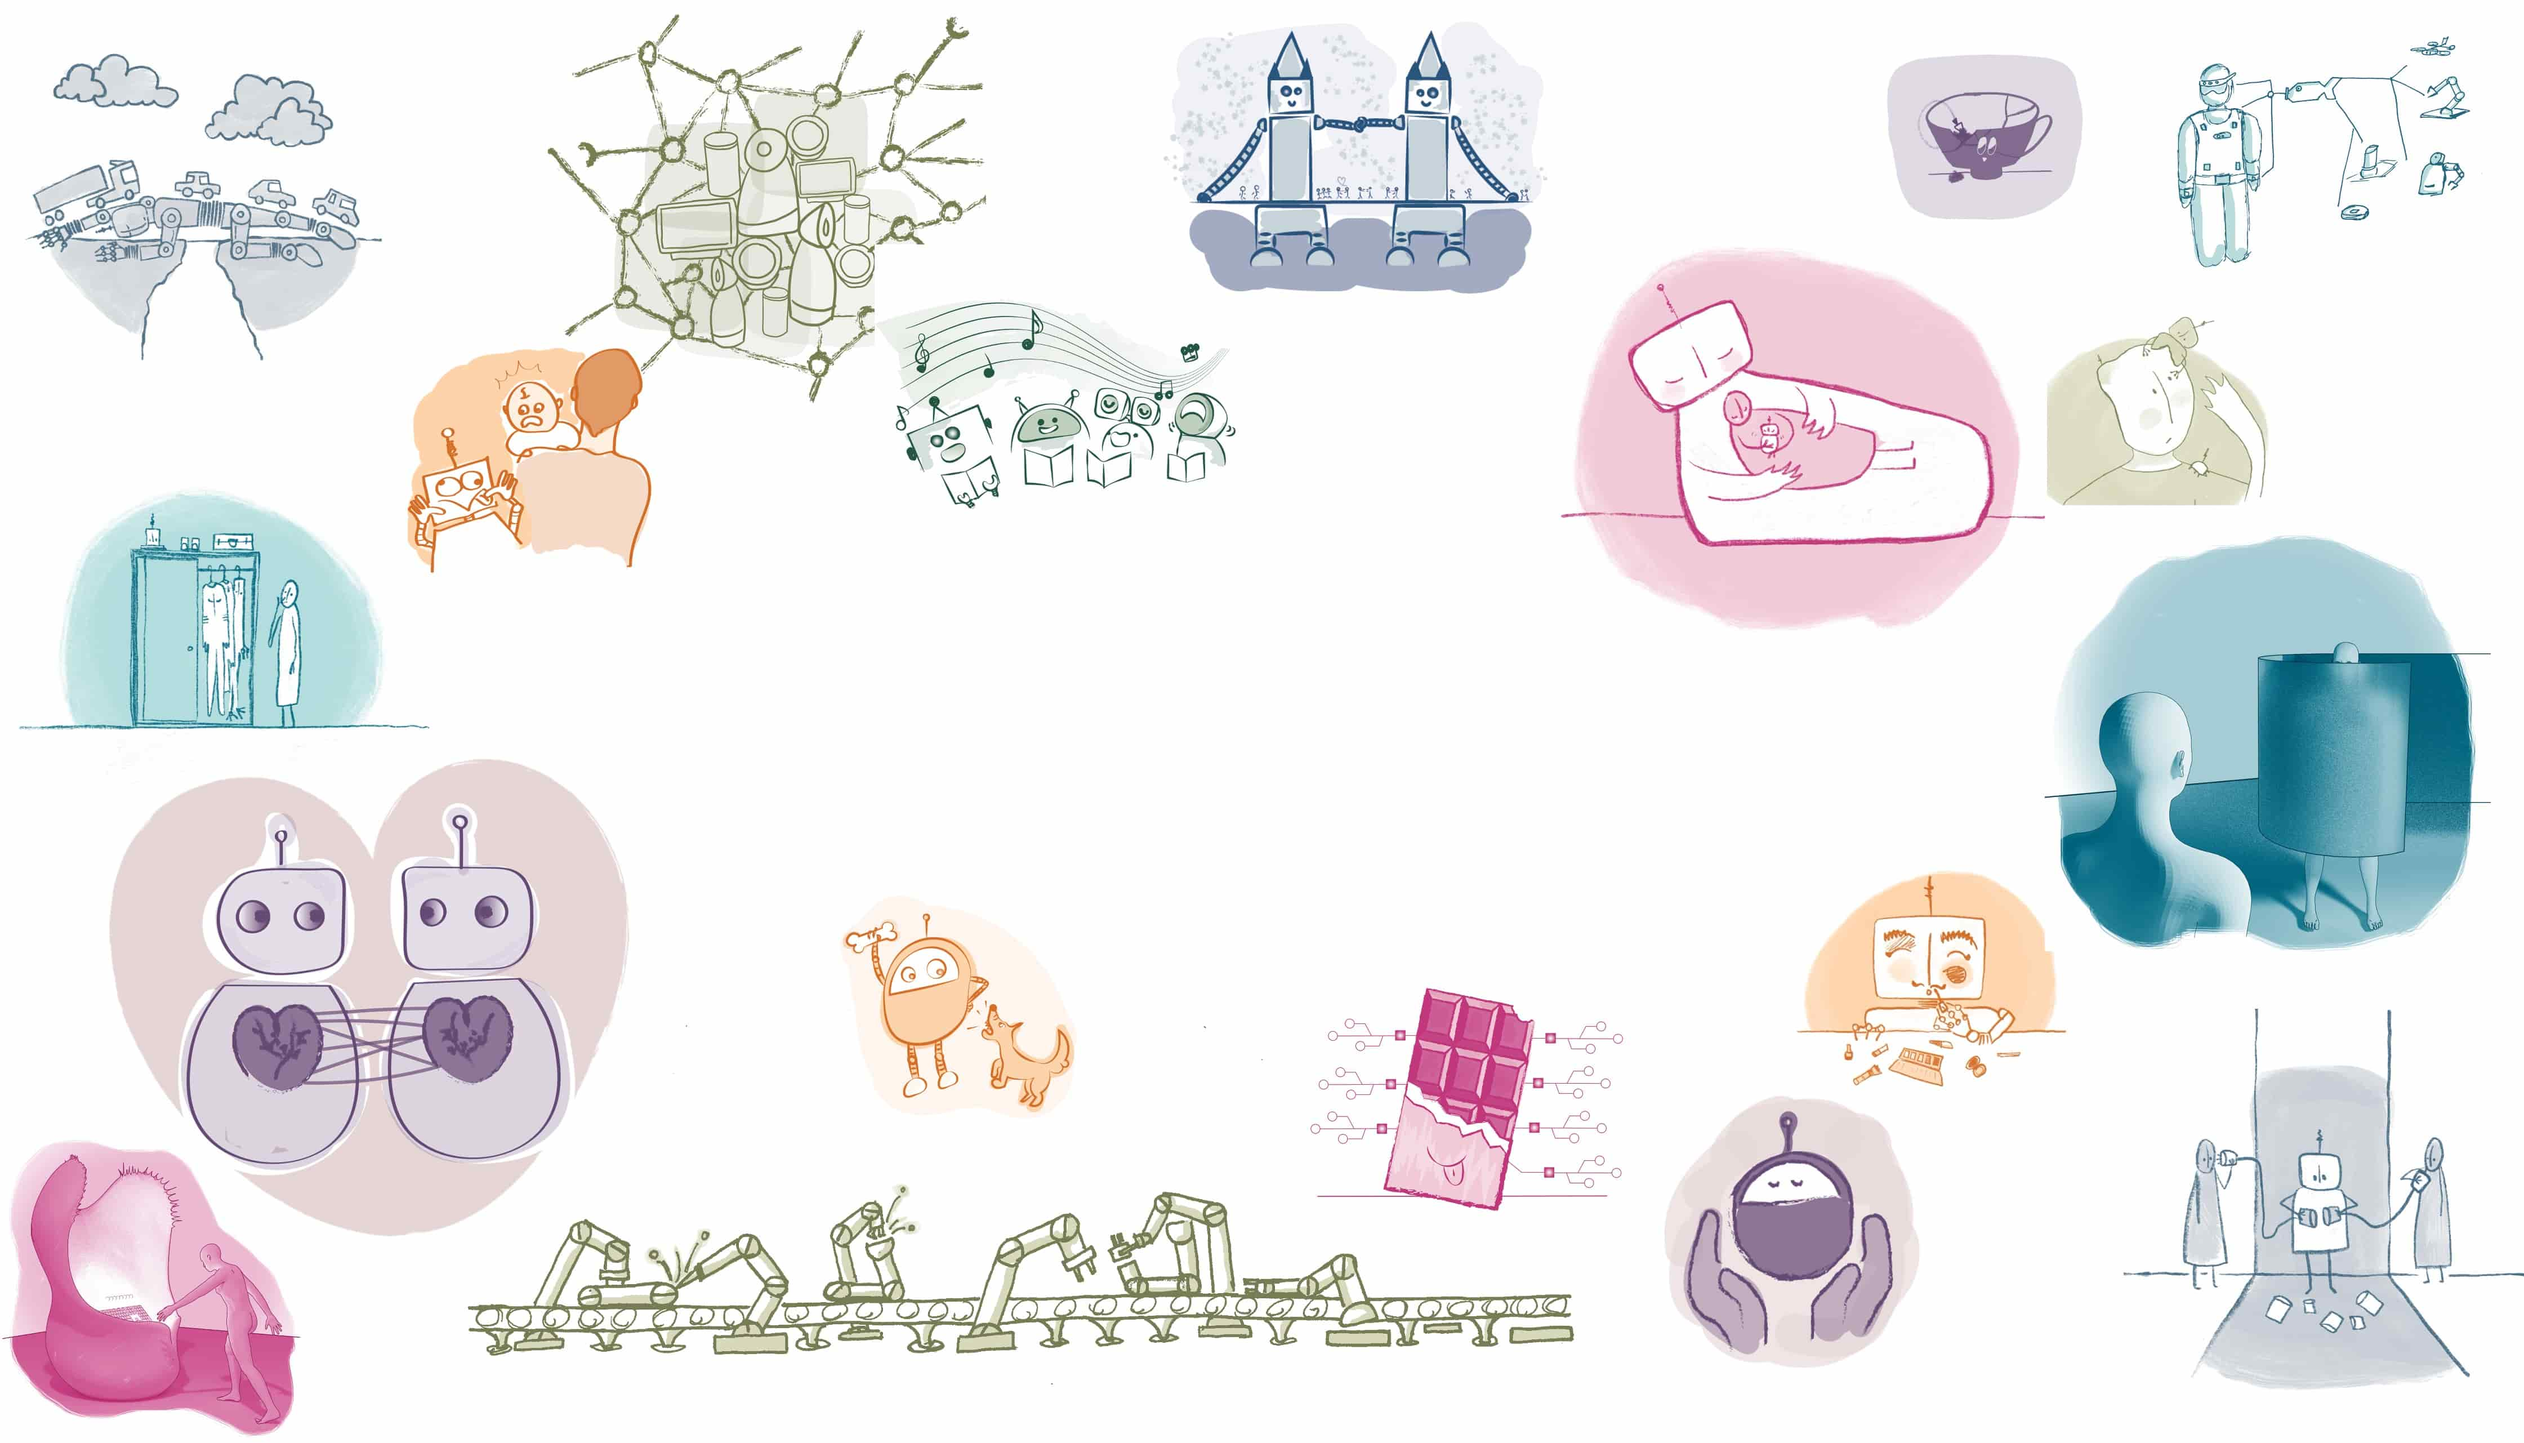
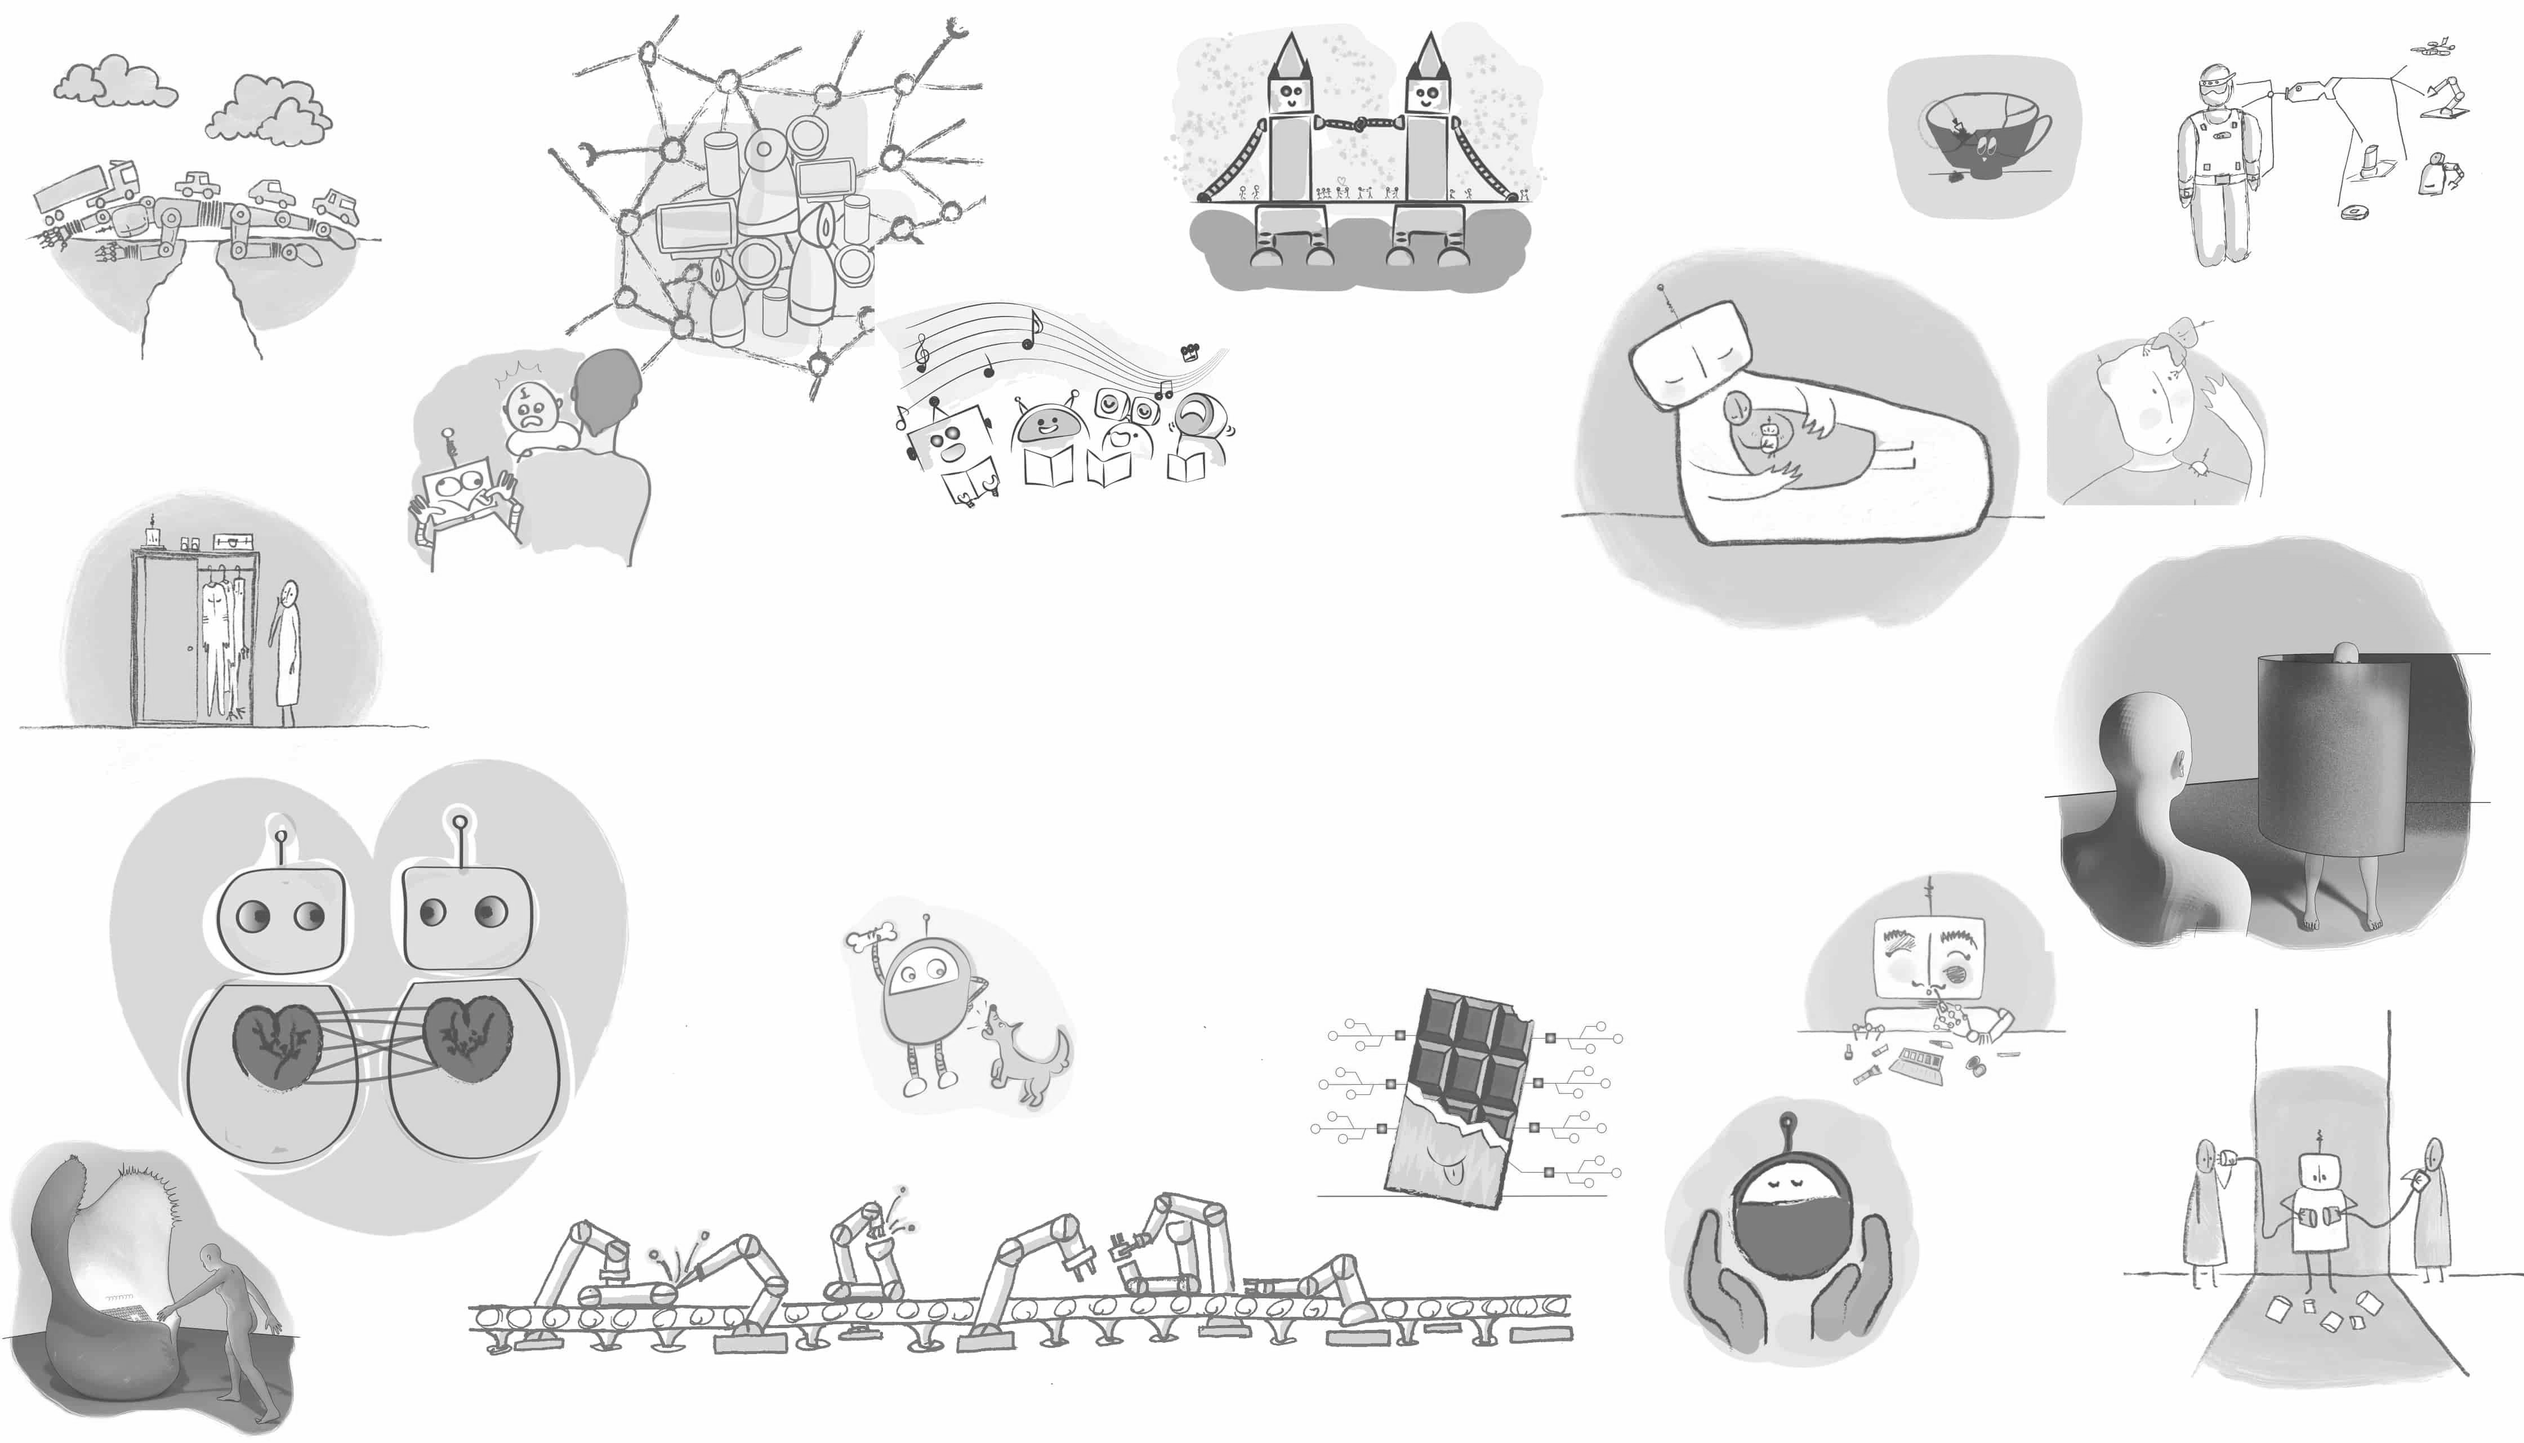
update site

diff --git a/index.html b/index.html
@@ -51,8 +51,9 @@ layout: default
             justify-content: center;
             align-items: center;
             background-color: white;
-            filter: grayscale(100%);
         }
+
+        
 
         .hero-section .title-container {
             position: relative;
@@ -275,7 +276,7 @@ layout: default
     <!-- hero section -->
     <div class="hero-section">
         <div class="title-container">
-            <h1>design retreat in<br>human-robot interaction</h1>
+            <h1 style="color:#002FA7">design retreat in<br>human-robot interaction</h1>
         </div>
     </div>
 
